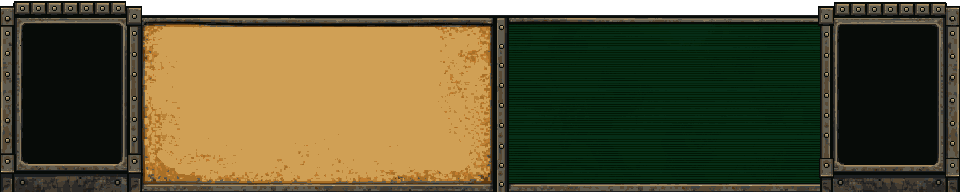
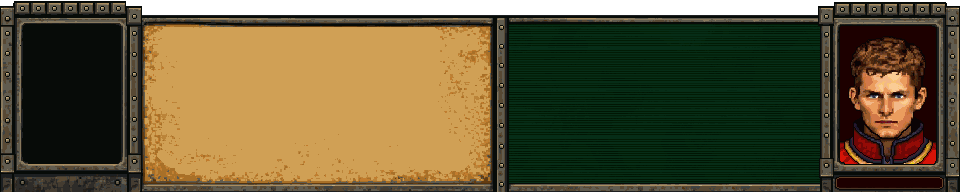
Starts to add actions and effects

Changed region(s): [[0.875, 0.1875, 1.0, 0.875], [0.8438, 0.9062, 1.0, 1.0]]

diff --git a/src/action_bar.py b/src/action_bar.py
@@ -2,6 +2,7 @@ import pygame
 import os
 from settings import BASE_DIR
 from utils import FONT_PATH
+from actions import Actions
 
 class ActionBar:
     def __init__(self, screen, player, scale, cam_centerer = None):
@@ -72,19 +73,75 @@ class ActionBar:
         self.double_click_threshold = 300  # Время в миллисекундах между кликами
         self.cam_centerer = cam_centerer
 
+        # Инициализация менеджера действий и кэш иконок
+        actions_db_path = os.path.join(BASE_DIR, "actions.json")
+        # Передаем словарь игрока (или свойства)
+        player_dict = {"flags": self.player.flags}
+        self.actions_manager = Actions(actions_db_path, player_dict)
+        self.icon_cache = {}
+
+        # Состояние выбора действия и прицеливания
+        self.selected_action = None  # Хранит ID или индекс выбранного действия
+        self.is_targeting = False    # Режим прицеливания линии к игроку
+
+    def get_action_rects(self):
+        # Начало сетки по координатам 252, 26 на оригинальном спрайте
+        start_grid_x = self.x + int(252 * self.scale)
+        start_grid_y = self.y + int(26 * self.scale)
+        cell_size = int(44 * self.scale)
+        gap = int(3 * self.scale)
+
+        # Получаем актуальный список доступных действий
+        # Оружие пока берем по умолчанию "unarmed" или проверяем инвентарь игрока
+        current_weapon = getattr(self.player, "equipped_weapon_category", "unarmed")
+        actions_list = self.actions_manager.get_available_actions(current_weapon)
+
+        rects = []
+        # Отрисовка по столбцам, состоящим из двух квадратных ячеек
+        for i, action in enumerate(actions_list):
+            col = i // 2
+            row = i % 2
+            rx = start_grid_x + col * (cell_size + gap)
+            ry = start_grid_y + row * (cell_size + gap)
+            rect = pygame.Rect(rx, ry, cell_size, cell_size)
+            rects.append((rect, action))
+        return rects
+
     def handle_mousemotion(self, pos):
         self.hover_left = self.btn_reload_left.collidepoint(pos)
         self.hover_right = self.btn_reload_right.collidepoint(pos)
 
-    def handle_mousedown(self, pos):
+    def handle_mousedown(self, pos, camera_x=0, camera_y=0, player_world_pos=None):
+        # Если находимся в режиме прицеливания линии к игроку
+        if self.is_targeting:
+            # Проверяем, кликнули ли мы по игроку (передаются мировые координаты игрока или проверяем через рект)
+            if player_world_pos and self._is_clicked_on_player(pos, player_world_pos, camera_x, camera_y):
+                self.is_targeting = False
+                return self.selected_action
+            else:
+                # При любой другой точке клика текущее состояние отменяется
+                self.selected_action = None
+                self.is_targeting = False
+                return None
+
+        # Проверка кликов по сетке действий
+        action_rects = self.get_action_rects()
+        for rect, action in action_rects:
+            if rect.collidepoint(pos):
+                self.selected_action = action["name"]
+                self.is_targeting = True # Включаем режим прицеливания (тянется линия)
+                return "action_selected"
+
         if self.portrait_rect.collidepoint(pos):
             current_time = pygame.time.get_ticks()
             if current_time - self.last_click_time <= self.double_click_threshold:
-                self.cam_centerer()
-                self.last_click_time = 0  # Сбрасываем таймер
+                if self.cam_centerer:
+                    self.cam_centerer()
+                self.last_click_time = 0
                 return True
             else:
                 self.last_click_time = current_time
+                return True
 
         if self.btn_reload_left.collidepoint(pos):
             self.reload_weapon(0)
@@ -92,42 +149,80 @@ class ActionBar:
         if self.btn_reload_right.collidepoint(pos):
             self.reload_weapon(1)
             return True
+            
         return False
+
+    def _is_clicked_on_player(self, mouse_pos, player_world_pos, cam_x, cam_y):
+        # Переводим мировые координаты игрока в экранные или используем player.rect с учетом камеры
+        p_screen_rect = self.player.rect.move(-cam_x, -cam_y)
+        return p_screen_rect.collidepoint(mouse_pos)
         
     def reload_weapon(self, slot_index):
         # Функция-заглушка для механики перезарядки
         print(f"Вызвана перезарядка для слота {slot_index}!")
 
-    def draw(self):
+    def draw(self, camera_x=0, camera_y=0):
         # 1. Отрисовка основной панели
         self.screen.blit(self.bar_img, (self.x, self.y))
         
-        # 2. Отрисовка кнопок Reload
+        # 2. Отрисовка ячеек действий
+        action_rects = self.get_action_rects()
+        cell_size = int(44 * self.scale)
+
+        current_weapon = getattr(self.player, "equipped_weapon_category", "unarmed")
+        actions_list = self.actions_manager.get_available_actions(current_weapon)
+
+        for i, (rect, action) in enumerate(action_rects):
+            # Рисуем подложку ячейки (или иконку)
+            full_path = os.path.join(BASE_DIR, action.get("icon_path", ""))
+            if full_path not in self.icon_cache:
+                try:
+                    img = pygame.image.load(full_path).convert_alpha()
+                    self.icon_cache[full_path] = pygame.transform.scale(img, (cell_size, cell_size))
+                except FileNotFoundError:
+                    self.icon_cache[full_path] = None
+                
+            cached_img = self.icon_cache.get(full_path)
+            if cached_img:
+                self.screen.blit(cached_img, rect.topleft)
+
+            # Если ячейка выбрана, рисуем белую обводку
+            if self.selected_action == action["id"]:
+                pygame.draw.rect(self.screen, (255, 255, 255), rect, width=2)
+
+        # 3. Если включено прицеливание, рисуем белую линию от центра спрайта игрока к курсору мыши
+        if self.is_targeting:
+            # Центр спрайта игрока на экране (с учетом камеры)
+            player_screen_center_x = self.player.rect.centerx - camera_x
+            player_screen_center_y = self.player.rect.centery - camera_y
+            mouse_pos = pygame.mouse.get_pos()
+            
+            pygame.draw.line(self.screen, (255, 255, 255), 
+                             (player_screen_center_x, player_screen_center_y), 
+                             mouse_pos, width=2)
+
+        # 4. Отрисовка кнопок Reload
         self._draw_button(self.btn_reload_left, "Reload", self.hover_left)
         self._draw_button(self.btn_reload_right, "Reload", self.hover_right)
         
-        # 3. Шкала здоровья (частичный рендер)
+        # 5. Шкала здоровья
         max_hp = self.player.get_max_health()
         current_hp = self.player.health_points
         hp_ratio = max(0.0, min(1.0, current_hp / max_hp)) if max_hp > 0 else 0.0
-        
         render_w = int(self.hp_w * hp_ratio)
         if render_w > 0:
             self.screen.blit(self.hp_img, (self.hp_x, self.hp_y), (0, 0, render_w, self.hp_h))
             
-        # Текст здоровья текущее/максимальное
         hp_text = f"{current_hp}/{max_hp}"
         self._draw_shadowed_text(hp_text, self.hp_x + self.hp_w // 2, self.hp_y + self.hp_h // 2, center=True)
 
-        # Текст текущего уровня игрока
         level_text = f"{self.player.level}"
-        self._draw_shadowed_text(level_text, self.x + int(218 * self.scale), self.y + int(128 * self.scale), (215, 161, 37),center=True)
+        self._draw_shadowed_text(level_text, self.x + int(218 * self.scale), self.y + int(128 * self.scale), (215, 161, 37), center=True)
         
-        # 4. Шкала опыта (частичный рендер со спрайтом xp_bar.png)
+        # 6. Шкала опыта
         max_xp = self.player.xp_cap
         current_xp = self.player.xp_points
         xp_ratio = max(0.0, min(1.0, current_xp / max_xp)) if max_xp > 0 else 0.0
-        
         xp_render_w = int(self.xp_w * xp_ratio)
         if xp_render_w > 0:
             self.screen.blit(self.xp_img, (self.xp_x, self.xp_y), (0, 0, xp_render_w, self.xp_h))

diff --git a/src/dialogue.py b/src/dialogue.py
@@ -46,8 +46,21 @@ class DialogueWindow:
 
         self.rect = self.image.get_rect(midbottom=(sw // 2, sh))   # Расположение окна диалога
 
+        # Загрузка текстуры полосы здоровья для диалога
+        hp_bar_path = os.path.join(ASSETS_PATH, "health_bar_dialogue.png")
+        raw_hp = pygame.image.load(hp_bar_path).convert_alpha()
+        self.hp_w = int(raw_hp.get_width() * self.ui_scale)
+        self.hp_h = int(raw_hp.get_height() * self.ui_scale)
+        self.hp_img = pygame.transform.scale(raw_hp, (self.hp_w, self.hp_h))
+
+        # Смещения полосы здоровья относительно верхнего левого угла окна диалога
+        # (Эти значения нужно будет подогнать под твой дизайн)
+        self.hp_offset_x = int(838 * self.ui_scale)
+        self.hp_offset_y = int(179 * self.ui_scale)
+
         self.font = pygame.font.Font(FONT_PATH, int(ANSWER_FONT_SIZE * self.ui_scale))  # Текст ответа
         self.option_font = pygame.font.Font(FONT_PATH, int(QUESTION_FONT_SIZE * self.ui_scale))   # Текст вопросов
+        self.hp_font = pygame.font.Font(FONT_PATH, int(8 * self.ui_scale))     # Уменьшенный шрифт специально для значений на полосе здоровья
 
         # Область текста NPC (координаты для спрайта window.png 960x192)
         self.text_offset_x = int(160 * self.ui_scale)
@@ -504,6 +517,44 @@ class DialogueWindow:
                 self.text_scrollbar.scroll_offset += scroll_speed if diff > 0 else -scroll_speed
 
         self.screen.blit(self.image, self.rect)
+
+        # --- Отрисовка полосы здоровья игрока ---
+        if hasattr(self, 'hp_img') and self.hp_img:
+            # Получаем актуальные данные о здоровье игрока
+            max_hp = self.player.get_max_health()
+            current_hp = self.player.health_points
+            
+            # Рассчитываем соотношение
+            hp_ratio = max(0.0, min(1.0, current_hp / max_hp)) if max_hp > 0 else 0.0
+            render_w = int(self.hp_w * hp_ratio)
+            
+            # Отрисовываем только заполненную часть (через clip-прямоугольник в tuple)
+            if render_w > 0:
+                hp_draw_x = self.rect.x + self.hp_offset_x
+                hp_draw_y = self.rect.y + self.hp_offset_y
+                self.screen.blit(self.hp_img, (hp_draw_x, hp_draw_y), (0, 0, render_w, self.hp_h))
+
+        # --- Текст здоровья (текущее/максимальное) по центру ---
+        hp_text = f"{current_hp}/{max_hp}"
+            
+            # Рендерим сам текст и черную тень для читаемости
+        label = self.hp_font.render(hp_text, True, (255, 255, 255))
+        shadow = self.hp_font.render(hp_text, True, (0, 0, 0))
+            
+        # Вычисляем координаты центра полосы здоровья
+        center_x = hp_draw_x + self.hp_w // 2
+        center_y = hp_draw_y + self.hp_h // 2
+            
+         # Получаем прямоугольник текста для центрирования
+        label_rect = label.get_rect(center=(center_x, center_y))
+            
+        # Вычисляем смещение тени с учетом масштабирования интерфейса (как в ActionBar)
+        shadow_x = label_rect.x + (2 * self.ui_scale)
+        shadow_y = label_rect.y + (1 * self.ui_scale)
+            
+        # Отрисовываем сначала тень, затем основной текст сверху
+        self.screen.blit(shadow, (shadow_x, shadow_y))
+        self.screen.blit(label, label_rect)
 
         # Портрет (навык или заглушка NPC) 
         px = self.rect.x + self.portrait_x

diff --git a/src/actions.py b/src/actions.py
@@ -1,0 +1,39 @@
+import json
+
+class Actions:
+    def __init__(self, path: str, player_data: dict):
+        self.player_data = player_data
+        
+        with open(path, 'r', encoding='utf-8') as file:
+            self.actions_db = json.load(file)
+        
+        # Разделяем базу для удобного доступа
+        self._all_player_actions = self.actions_db.get("player_actions", {})
+        self._all_weapon_actions = self.actions_db.get("weapon_actions", {})
+
+    def _check_flags(self, required_flags: list) -> bool:
+        if not required_flags:
+            return True # Если флагов не требуется, действие доступно
+        
+        player_flags = self.player_data.get("flags", {})
+      
+        # Проверяем, что все нужные флаги присутствуют в словаре флагов игрока и равны True
+        return all(player_flags.get(flag, False) for flag in required_flags)
+
+    def get_available_actions(self, equipped_weapon_category: str = "unarmed") -> list:
+        available = []
+        # 1. Действия игрока по флагам
+        for action_id, data in self._all_player_actions.items():
+            if self._check_flags(data.get("required_flags", [])):
+                item = data.copy()
+                item["id"] = action_id
+                available.append(item)
+                
+        # 2. Действия оружием
+        weapon_group = self._all_weapon_actions.get(equipped_weapon_category, self._all_weapon_actions.get("unarmed", {}))
+        for action_id, data in weapon_group.items():
+            item = data.copy()
+            item["id"] = action_id
+            available.append(item)
+            
+        return available

diff --git a/src/game.py b/src/game.py
@@ -469,8 +469,16 @@ class Game:
                     continue
 
                 if not self.dialogue_active and not self.menu_active and not self.skill_check:
-                    if hasattr(self, 'action_bar') and self.action_bar.handle_mousedown(event.pos):
-                        continue  # Если кликнули по кнопке панели, не идем туда персонажем
+                    if hasattr(self, 'action_bar'):
+                        # Передаем координаты клика, позицию камеры и объект игрока для проверки прицеливания
+                        res = self.action_bar.handle_mousedown(
+                            event.pos, 
+                            camera_x=self.camera_x, 
+                            camera_y=self.camera_y, 
+                            player_world_pos=(self.player.x, self.player.y)
+                        )
+                        if res:  
+                            continue  # Если клик обработан панелью действий (выбор ячейки или применение), дальше не идем
 
                 if self.menu_active:            # Клик по табам
                     tab_clicked = False
@@ -710,7 +718,7 @@ class Game:
             self.chest_window.draw(self.camera_x, self.camera_y, self.current_map.tile_size)
 
         if not self.dialogue_active and not self.menu_active and not self.skill_check:
-            self.action_bar.draw()
+            self.action_bar.draw(camera_x=self.camera_x, camera_y=self.camera_y)
 
         if self.menu_active:  #   Окно меню (навыки/инвентарь/задания)
             self.menu_windows[self.menu_tab].draw()

diff --git a/src/effects.py b/src/effects.py
@@ -1,0 +1,19 @@
+import pygame
+
+class Effect:
+    def __init__(self, duration_ms):
+        self.duration_ms = duration_ms
+        self.start_time = pygame.time.get_ticks()
+        self.is_finished = False
+
+    def update(self):
+        # Проверяем, не истекло ли время (реал-тайм)
+        if pygame.time.get_ticks() - self.start_time >= self.duration_ms:
+            self.is_finished = True
+
+class DashEffect(Effect):
+    def __init__(self):
+        super().__init__(10000) # 10 секунд (10000 мс)
+
+    def apply_speed_multiplier(self):
+        return 20.0 # Ускорение в 2 раза
